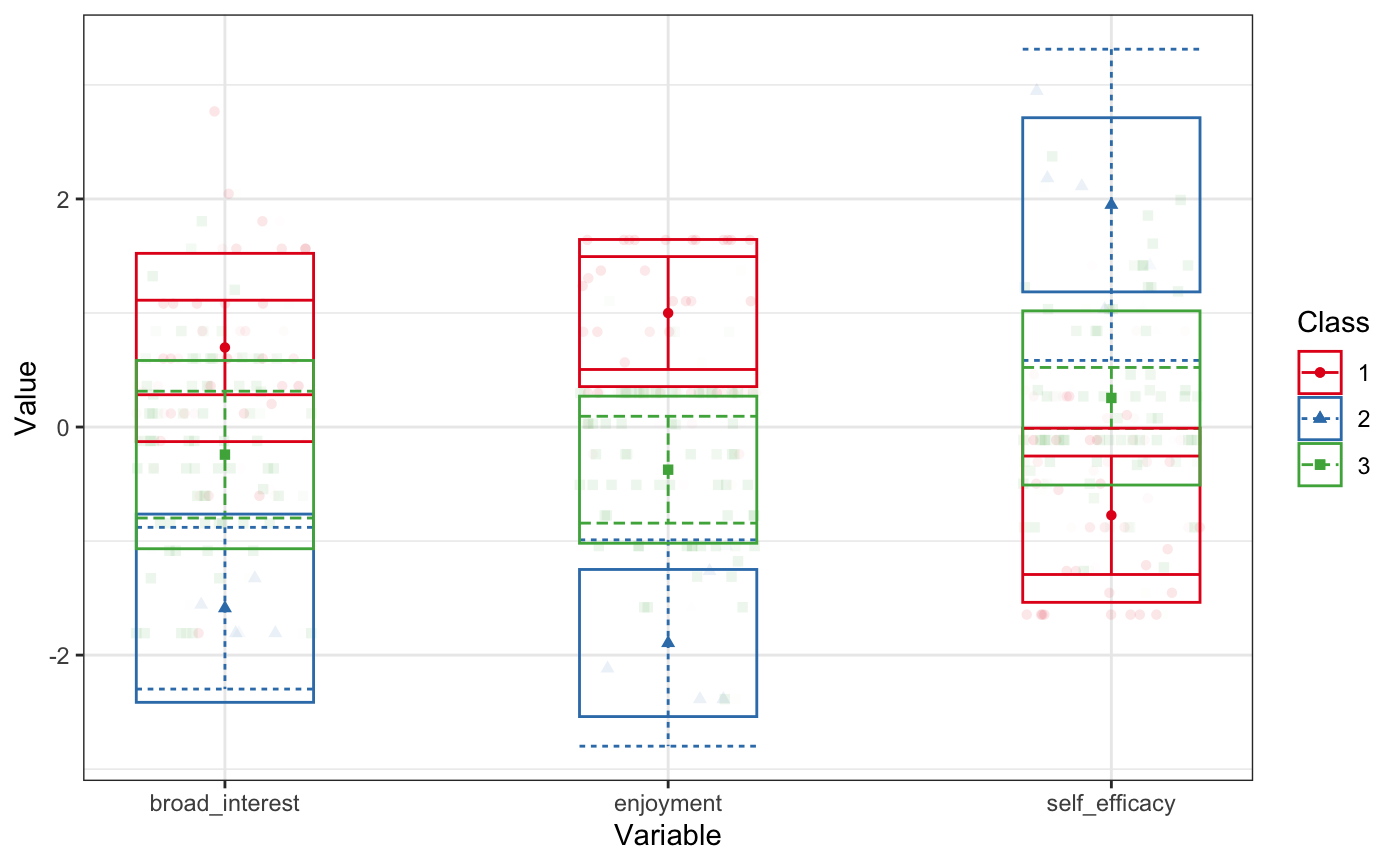
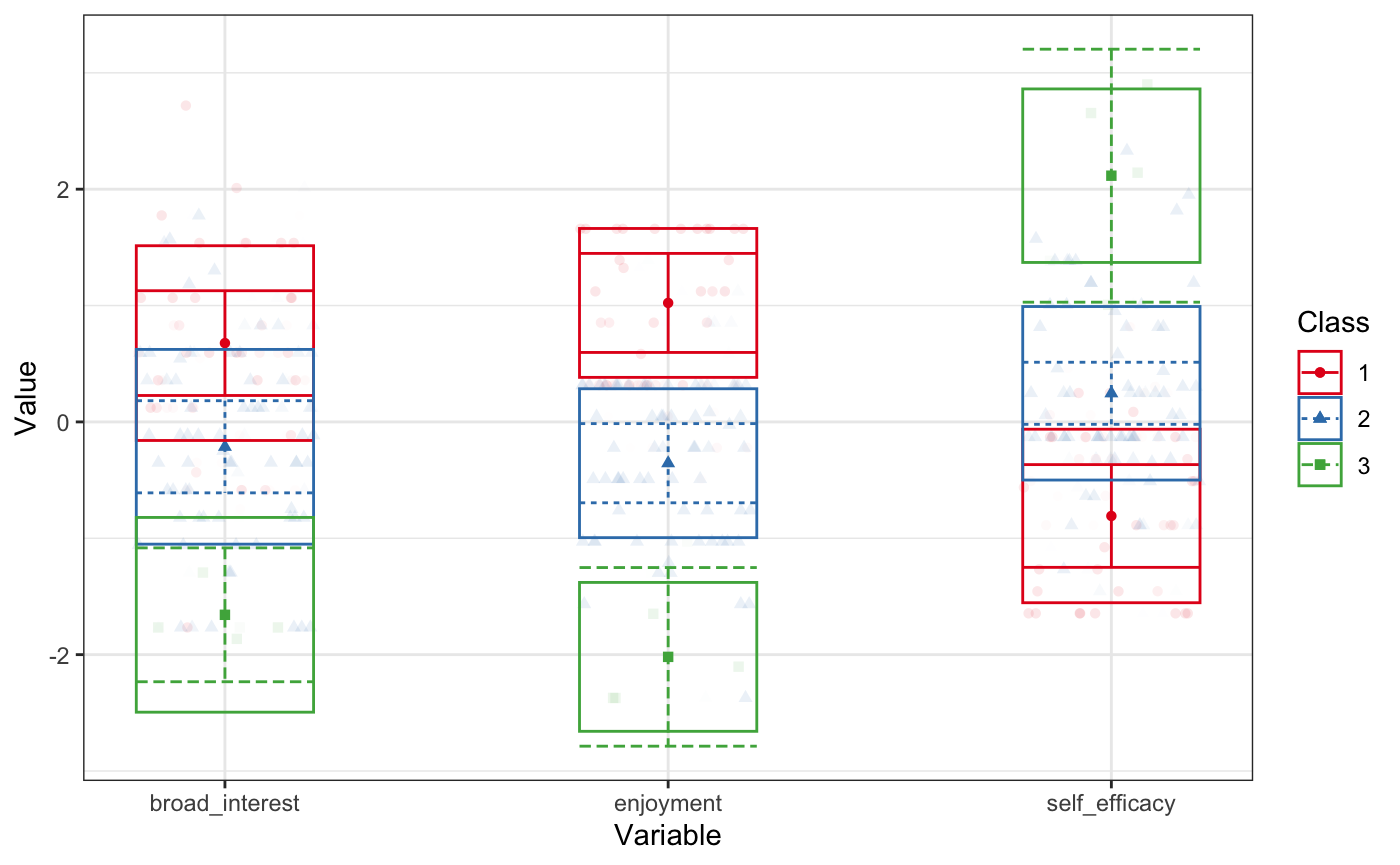
update site

diff --git a/docs/articles/Introduction_to_tidyLPA.html b/docs/articles/Introduction_to_tidyLPA.html
@@ -128,7 +128,7 @@
 <p>In the open-source R software, there is not yet a tool to easily carry out LPA, though there are many tools that one could use to. For example, the <a href="https://openmx.ssri.psu.edu/">R version of OpenMx</a> can be used for this purpose (and to specify almost any model possible to specify within a latent variable modeling approach). However, while OpenMx is very flexible, it can also be challenging to use.</p>
 <p>Other tools in R allow for estimating Gaussian mixture models, or models of multivariate Gaussian (or normal) distributions. In this framework, the term “mixture component” has a similar meaning to a profile. While much more constraining than the latent variable modeling framework, the approach is often similar or the same: the EM algorithm is used to (aim to) obtain the maximum likelihood estimates for the parameters being estimated. Like in the latent variable modeling framework, different models can be specified.</p>
 <p>In addition to following the same general approach, using tools that are designed for Gaussian mixture modeling have other benefits, some efficiency-related (see <a href="https://cran.r-project.org/package=Rmixmod">RMixMod</a>, which uses compiled C++ code) and others in terms of ease-of-use (i.e., the plot methods built-in to RMixMod, mclust, and other tools). However, they also have some drawbacks, in that it can be difficult to translate between the model specifications, which are often described in terms of the geometric properties of the multivariate distributions being estimated (i.e., “spherical, equal volume”), rather than in terms of whether and how the means, variances, and covariances are estimated. They also may use different default settings (than those encountered in MPlus) in terms of the expectation-maximization algorithm, which can make comparing results across tools challenging.</p>
-<p>This package focuses on models that are commonly specified as part of LPA. Because MPlus is so widely-used, it can be helpful to compare output from other software to MPlus. The functions in tidyLPA that use mclust have been benchmarked to MPlus for a series of simple models (with small datasets and for models with small numbers of profiles. This <a href="https://jrosen48.github.io/r-markdown/comparing-mplus-mclust.html">R Markdown output</a> contains information on how mclust and Mplus compare. The R Markdown to generate the output is also available <a href="https://jrosen48.github.io/r-markdown/comparing-mplus-mclust.Rmd">here</a>, and, as long as you have purchased MPlus (and installed MplusAutomation), can be used to replicate all of the results for the benchmark. Note that most of the output is identical, though there are some differences in the hundreths decimal places for some. Because of differences in settings for the EM algorithm and particularly for the start values (random starts for MPlus and starting values from hierarchical clustering for mclust), differences may be expected for more complex data and models. An important direction for the development of tidyLPA (the functions that use mclust) is to continue to understand when and why the output differs from MPlus output. Note that tidyLPA also provides functions to interface to MPlus, though these are not the focus of the package, as they require MPlus to be purchased and installed in order to be used.</p>
+<p>This package focuses on models that are commonly specified as part of LPA. Because MPlus is so widely-used, it can be helpful to compare output from other software to MPlus. The functions in tidyLPA that use mclust have been benchmarked to MPlus for a series of simple models (with small datasets and for models with small numbers of profiles. This <a href="https://jrosen48.github.io/r-markdown/comparing-mplus-mclust.html">R Markdown output</a> contains information on how mclust and Mplus compare. The R Markdown to generate the output is also available <a href="https://jrosen48.github.io/r-markdown/comparing-mplus-mclust.Rmd">here</a>, and, as long as you have purchased MPlus (and installed MplusAutomation), can be used to replicate all of the results for the benchmark. Note that most of the output is identical, though there are some differences in the hundredths decimal places for some. Because of differences in settings for the EM algorithm and particularly for the start values (random starts for MPlus and starting values from hierarchical clustering for mclust), differences may be expected for more complex data and models. An important direction for the development of tidyLPA (the functions that use mclust) is to continue to understand when and why the output differs from MPlus output. Note that tidyLPA also provides functions to interface to MPlus, though these are not the focus of the package, as they require MPlus to be purchased and installed in order to be used.</p>
 </div>
 </div>
 <div id="example" class="section level1">
@@ -157,7 +157,7 @@
 <a class="sourceLine" id="cb4-5" data-line-number="5"><span class="co">#&gt; tidyLPA analysis using mclust: </span></a>
 <a class="sourceLine" id="cb4-6" data-line-number="6"><span class="co">#&gt; </span></a>
 <a class="sourceLine" id="cb4-7" data-line-number="7"><span class="co">#&gt;  Model Classes AIC    BIC    Entropy prob_min prob_max n_min n_max BLRT_p</span></a>
-<a class="sourceLine" id="cb4-8" data-line-number="8"><span class="co">#&gt;  1     3       627.56 664.03 0.81    0.84     0.95     0.03  0.66  0.01</span></a></code></pre></div>
+<a class="sourceLine" id="cb4-8" data-line-number="8"><span class="co">#&gt;  1     3       635.45 671.92 0.72    0.83     0.89     0.21  0.53  0.07</span></a></code></pre></div>
 </div>
 <div id="mplus" class="section level2">
 <h2 class="hasAnchor">
@@ -192,14 +192,14 @@
 <a class="sourceLine" id="cb7-8" data-line-number="8"><span class="co">#&gt; Compare tidyLPA solutions:</span></a>
 <a class="sourceLine" id="cb7-9" data-line-number="9"><span class="co">#&gt; </span></a>
 <a class="sourceLine" id="cb7-10" data-line-number="10"><span class="co">#&gt;  Model Classes AIC     BIC    </span></a>
-<a class="sourceLine" id="cb7-11" data-line-number="11"><span class="co">#&gt;  1     1       673.945 689.576</span></a>
-<a class="sourceLine" id="cb7-12" data-line-number="12"><span class="co">#&gt;  1     2       636.610 662.661</span></a>
-<a class="sourceLine" id="cb7-13" data-line-number="13"><span class="co">#&gt;  1     3       625.794 662.267</span></a>
-<a class="sourceLine" id="cb7-14" data-line-number="14"><span class="co">#&gt;  6     1       617.093 640.539</span></a>
-<a class="sourceLine" id="cb7-15" data-line-number="15"><span class="co">#&gt;  6     2       628.340 677.839</span></a>
-<a class="sourceLine" id="cb7-16" data-line-number="16"><span class="co">#&gt;  6     3       618.584 694.134</span></a>
+<a class="sourceLine" id="cb7-11" data-line-number="11"><span class="co">#&gt;  1     1       682.857 698.488</span></a>
+<a class="sourceLine" id="cb7-12" data-line-number="12"><span class="co">#&gt;  1     2       650.082 676.134</span></a>
+<a class="sourceLine" id="cb7-13" data-line-number="13"><span class="co">#&gt;  1     3       646.310 682.782</span></a>
+<a class="sourceLine" id="cb7-14" data-line-number="14"><span class="co">#&gt;  6     1       636.401 659.847</span></a>
+<a class="sourceLine" id="cb7-15" data-line-number="15"><span class="co">#&gt;  6     2       631.478 680.977</span></a>
+<a class="sourceLine" id="cb7-16" data-line-number="16"><span class="co">#&gt;  6     3       634.884 710.434</span></a>
 <a class="sourceLine" id="cb7-17" data-line-number="17"><span class="co">#&gt; </span></a>
-<a class="sourceLine" id="cb7-18" data-line-number="18"><span class="co">#&gt; Best model according to AIC is Model 6 with 1 classes.</span></a>
+<a class="sourceLine" id="cb7-18" data-line-number="18"><span class="co">#&gt; Best model according to AIC is Model 6 with 2 classes.</span></a>
 <a class="sourceLine" id="cb7-19" data-line-number="19"><span class="co">#&gt; Best model according to BIC is Model 6 with 1 classes.</span></a>
 <a class="sourceLine" id="cb7-20" data-line-number="20"><span class="co">#&gt; </span></a>
 <a class="sourceLine" id="cb7-21" data-line-number="21"><span class="co">#&gt; An analytic hierarchy process, based on the fit indices AIC, AWE, BIC, CLC, and KIC (Akogul &amp; Erisoglu, 2017), suggests the best solution is Model 6 with 1 classes.</span></a></code></pre></div>
@@ -332,26 +332,26 @@
 <a class="sourceLine" id="cb11-5" data-line-number="5"></a>
 <a class="sourceLine" id="cb11-6" data-line-number="6"><span class="kw"><a href="../reference/get_estimates.html">get_estimates</a></span>(m3)</a>
 <a class="sourceLine" id="cb11-7" data-line-number="7"><span class="co">#&gt; # A tibble: 18 x 8</span></a>
-<a class="sourceLine" id="cb11-8" data-line-number="8"><span class="co">#&gt;    Category  Parameter      Estimate     se        p Class Model Classes</span></a>
-<a class="sourceLine" id="cb11-9" data-line-number="9"><span class="co">#&gt;    &lt;chr&gt;     &lt;chr&gt;             &lt;dbl&gt;  &lt;dbl&gt;    &lt;dbl&gt; &lt;int&gt; &lt;dbl&gt;   &lt;dbl&gt;</span></a>
-<a class="sourceLine" id="cb11-10" data-line-number="10"><span class="co">#&gt;  1 Means     broad_interest    3.09  0.204  7.84e-52     1     1       3</span></a>
-<a class="sourceLine" id="cb11-11" data-line-number="11"><span class="co">#&gt;  2 Means     enjoyment         3.51  0.185  8.15e-81     1     1       3</span></a>
-<a class="sourceLine" id="cb11-12" data-line-number="12"><span class="co">#&gt;  3 Means     self_efficacy     1.58  0.210  5.86e-14     1     1       3</span></a>
-<a class="sourceLine" id="cb11-13" data-line-number="13"><span class="co">#&gt;  4 Variances broad_interest    0.489 0.107  4.91e- 6     1     1       3</span></a>
-<a class="sourceLine" id="cb11-14" data-line-number="14"><span class="co">#&gt;  5 Variances enjoyment         0.230 0.0558 3.61e- 5     1     1       3</span></a>
-<a class="sourceLine" id="cb11-15" data-line-number="15"><span class="co">#&gt;  6 Variances self_efficacy     0.246 0.0510 1.48e- 6     1     1       3</span></a>
-<a class="sourceLine" id="cb11-16" data-line-number="16"><span class="co">#&gt;  7 Means     broad_interest    1.14  0.344  8.98e- 4     2     1       3</span></a>
-<a class="sourceLine" id="cb11-17" data-line-number="17"><span class="co">#&gt;  8 Means     enjoyment         1.14  0.379  2.62e- 3     2     1       3</span></a>
-<a class="sourceLine" id="cb11-18" data-line-number="18"><span class="co">#&gt;  9 Means     self_efficacy     3.39  0.495  7.03e-12     2     1       3</span></a>
-<a class="sourceLine" id="cb11-19" data-line-number="19"><span class="co">#&gt; 10 Variances broad_interest    0.489 0.107  4.91e- 6     2     1       3</span></a>
-<a class="sourceLine" id="cb11-20" data-line-number="20"><span class="co">#&gt; 11 Variances enjoyment         0.230 0.0558 3.61e- 5     2     1       3</span></a>
-<a class="sourceLine" id="cb11-21" data-line-number="21"><span class="co">#&gt; 12 Variances self_efficacy     0.246 0.0510 1.48e- 6     2     1       3</span></a>
-<a class="sourceLine" id="cb11-22" data-line-number="22"><span class="co">#&gt; 13 Means     broad_interest    2.27  0.214  3.61e-26     3     1       3</span></a>
-<a class="sourceLine" id="cb11-23" data-line-number="23"><span class="co">#&gt; 14 Means     enjoyment         2.49  0.169  3.81e-49     3     1       3</span></a>
-<a class="sourceLine" id="cb11-24" data-line-number="24"><span class="co">#&gt; 15 Means     self_efficacy     2.26  0.132  1.85e-65     3     1       3</span></a>
-<a class="sourceLine" id="cb11-25" data-line-number="25"><span class="co">#&gt; 16 Variances broad_interest    0.489 0.107  4.91e- 6     3     1       3</span></a>
-<a class="sourceLine" id="cb11-26" data-line-number="26"><span class="co">#&gt; 17 Variances enjoyment         0.230 0.0558 3.61e- 5     3     1       3</span></a>
-<a class="sourceLine" id="cb11-27" data-line-number="27"><span class="co">#&gt; 18 Variances self_efficacy     0.246 0.0510 1.48e- 6     3     1       3</span></a></code></pre></div>
+<a class="sourceLine" id="cb11-8" data-line-number="8"><span class="co">#&gt;    Category  Parameter      Estimate     se         p Class Model Classes</span></a>
+<a class="sourceLine" id="cb11-9" data-line-number="9"><span class="co">#&gt;    &lt;chr&gt;     &lt;chr&gt;             &lt;dbl&gt;  &lt;dbl&gt;     &lt;dbl&gt; &lt;int&gt; &lt;dbl&gt;   &lt;dbl&gt;</span></a>
+<a class="sourceLine" id="cb11-10" data-line-number="10"><span class="co">#&gt;  1 Means     broad_interest    3.09  0.211  1.06e- 48     1     1       3</span></a>
+<a class="sourceLine" id="cb11-11" data-line-number="11"><span class="co">#&gt;  2 Means     enjoyment         3.51  0.165  3.64e-101     1     1       3</span></a>
+<a class="sourceLine" id="cb11-12" data-line-number="12"><span class="co">#&gt;  3 Means     self_efficacy     1.58  0.162  1.68e- 22     1     1       3</span></a>
+<a class="sourceLine" id="cb11-13" data-line-number="13"><span class="co">#&gt;  4 Variances broad_interest    0.489 0.114  1.87e-  5     1     1       3</span></a>
+<a class="sourceLine" id="cb11-14" data-line-number="14"><span class="co">#&gt;  5 Variances enjoyment         0.230 0.0527 1.21e-  5     1     1       3</span></a>
+<a class="sourceLine" id="cb11-15" data-line-number="15"><span class="co">#&gt;  6 Variances self_efficacy     0.246 0.0384 1.55e- 10     1     1       3</span></a>
+<a class="sourceLine" id="cb11-16" data-line-number="16"><span class="co">#&gt;  7 Means     broad_interest    1.14  0.277  3.89e-  5     2     1       3</span></a>
+<a class="sourceLine" id="cb11-17" data-line-number="17"><span class="co">#&gt;  8 Means     enjoyment         1.14  0.310  2.28e-  4     2     1       3</span></a>
+<a class="sourceLine" id="cb11-18" data-line-number="18"><span class="co">#&gt;  9 Means     self_efficacy     3.39  0.512  3.23e- 11     2     1       3</span></a>
+<a class="sourceLine" id="cb11-19" data-line-number="19"><span class="co">#&gt; 10 Variances broad_interest    0.489 0.114  1.87e-  5     2     1       3</span></a>
+<a class="sourceLine" id="cb11-20" data-line-number="20"><span class="co">#&gt; 11 Variances enjoyment         0.230 0.0527 1.21e-  5     2     1       3</span></a>
+<a class="sourceLine" id="cb11-21" data-line-number="21"><span class="co">#&gt; 12 Variances self_efficacy     0.246 0.0384 1.55e- 10     2     1       3</span></a>
+<a class="sourceLine" id="cb11-22" data-line-number="22"><span class="co">#&gt; 13 Means     broad_interest    2.27  0.199  3.31e- 30     3     1       3</span></a>
+<a class="sourceLine" id="cb11-23" data-line-number="23"><span class="co">#&gt; 14 Means     enjoyment         2.49  0.155  7.38e- 58     3     1       3</span></a>
+<a class="sourceLine" id="cb11-24" data-line-number="24"><span class="co">#&gt; 15 Means     self_efficacy     2.26  0.0837 2.69e-160     3     1       3</span></a>
+<a class="sourceLine" id="cb11-25" data-line-number="25"><span class="co">#&gt; 16 Variances broad_interest    0.489 0.114  1.87e-  5     3     1       3</span></a>
+<a class="sourceLine" id="cb11-26" data-line-number="26"><span class="co">#&gt; 17 Variances enjoyment         0.230 0.0527 1.21e-  5     3     1       3</span></a>
+<a class="sourceLine" id="cb11-27" data-line-number="27"><span class="co">#&gt; 18 Variances self_efficacy     0.246 0.0384 1.55e- 10     3     1       3</span></a></code></pre></div>
 <p>Other options include how the raw data is processed.</p>
 <p>We can center or scale the data before estimating the profiles with the <code><a href="https://rdrr.io/r/base/scale.html">scale()</a></code> or <code><a href="../reference/poms.html">poms()</a></code> functions:</p>
 <div class="sourceCode" id="cb12"><pre class="sourceCode r"><code class="sourceCode r"><a class="sourceLine" id="cb12-1" data-line-number="1">pisaUSA15[<span class="dv">1</span><span class="op">:</span><span class="dv">100</span>, ] <span class="op">%&gt;%</span></a>
@@ -401,13 +401,13 @@
 <a class="sourceLine" id="cb15-8" data-line-number="8"><span class="co">#&gt;    model_number classes_number broad_interest enjoyment self_efficacy Class</span></a>
 <a class="sourceLine" id="cb15-9" data-line-number="9"><span class="co">#&gt;           &lt;dbl&gt;          &lt;dbl&gt;          &lt;dbl&gt;     &lt;dbl&gt;         &lt;dbl&gt; &lt;dbl&gt;</span></a>
 <a class="sourceLine" id="cb15-10" data-line-number="10"><span class="co">#&gt;  1            1              3            3.8       4            1        1</span></a>
-<a class="sourceLine" id="cb15-11" data-line-number="11"><span class="co">#&gt;  2            1              3            3         3            2.75     3</span></a>
+<a class="sourceLine" id="cb15-11" data-line-number="11"><span class="co">#&gt;  2            1              3            3         3            2.75     2</span></a>
 <a class="sourceLine" id="cb15-12" data-line-number="12"><span class="co">#&gt;  3            1              3            1.8       2.8          3.38     3</span></a>
-<a class="sourceLine" id="cb15-13" data-line-number="13"><span class="co">#&gt;  4            1              3            1.4       1            2.75     2</span></a>
+<a class="sourceLine" id="cb15-13" data-line-number="13"><span class="co">#&gt;  4            1              3            1.4       1            2.75     3</span></a>
 <a class="sourceLine" id="cb15-14" data-line-number="14"><span class="co">#&gt;  5            1              3            1.8       2.2          2        3</span></a>
 <a class="sourceLine" id="cb15-15" data-line-number="15"><span class="co">#&gt;  6            1              3            1.6       1.6          1.88     3</span></a>
 <a class="sourceLine" id="cb15-16" data-line-number="16"><span class="co">#&gt;  7            1              3            3         3.8          2.25     1</span></a>
-<a class="sourceLine" id="cb15-17" data-line-number="17"><span class="co">#&gt;  8            1              3            2.6       2.2          2        3</span></a>
+<a class="sourceLine" id="cb15-17" data-line-number="17"><span class="co">#&gt;  8            1              3            2.6       2.2          2        2</span></a>
 <a class="sourceLine" id="cb15-18" data-line-number="18"><span class="co">#&gt;  9            1              3            1         2.8          2.62     3</span></a>
 <a class="sourceLine" id="cb15-19" data-line-number="19"><span class="co">#&gt; 10            1              3            2.2       2            1.75     3</span></a>
 <a class="sourceLine" id="cb15-20" data-line-number="20"><span class="co">#&gt; # … with 690 more rows, and 3 more variables: Class_prob &lt;int&gt;,</span></a>
@@ -421,8 +421,8 @@
 <a class="sourceLine" id="cb16-2" data-line-number="2"><span class="co">#&gt; # A tibble: 2 x 18</span></a>
 <a class="sourceLine" id="cb16-3" data-line-number="3"><span class="co">#&gt;   Model Classes LogLik   AIC   AWE   BIC  CAIC   CLC   KIC SABIC   ICL Entropy</span></a>
 <a class="sourceLine" id="cb16-4" data-line-number="4"><span class="co">#&gt;   &lt;dbl&gt;   &lt;dbl&gt;  &lt;dbl&gt; &lt;dbl&gt; &lt;dbl&gt; &lt;dbl&gt; &lt;dbl&gt; &lt;dbl&gt; &lt;dbl&gt; &lt;dbl&gt; &lt;dbl&gt;   &lt;dbl&gt;</span></a>
-<a class="sourceLine" id="cb16-5" data-line-number="5"><span class="co">#&gt; 1     1       3  -301.  631.  772.  667.  681.  604.  648.  623. -687.   0.806</span></a>
-<a class="sourceLine" id="cb16-6" data-line-number="6"><span class="co">#&gt; 2     1       4  -291.  618.  800.  665.  683.  584.  639.  608. -678.   0.900</span></a>
+<a class="sourceLine" id="cb16-5" data-line-number="5"><span class="co">#&gt; 1     1       3  -301.  629.  771.  666.  680.  603.  646.  622. -706.   0.640</span></a>
+<a class="sourceLine" id="cb16-6" data-line-number="6"><span class="co">#&gt; 2     1       4  -296.  628.  810.  675.  693.  593.  649.  618. -708.   0.736</span></a>
 <a class="sourceLine" id="cb16-7" data-line-number="7"><span class="co">#&gt; # … with 6 more variables: prob_min &lt;dbl&gt;, prob_max &lt;dbl&gt;, n_min &lt;dbl&gt;,</span></a>
 <a class="sourceLine" id="cb16-8" data-line-number="8"><span class="co">#&gt; #   n_max &lt;dbl&gt;, BLRT_val &lt;dbl&gt;, BLRT_p &lt;dbl&gt;</span></a></code></pre></div>
 <p>Descriptions of these fit indices follows:</p>
@@ -440,7 +440,7 @@
 </li>
 <li>KIC: Kullback information criterion; based on -2 log-likelihood, and penalized by 3 times the number of parameters -1 (Cavanaugh, 1999).<br>
 </li>
-<li>SABIC: Sample size-adjusted bayesian information criterion (Sclove, 1987).<br>
+<li>SABIC: Sample size-adjusted Bayesian information criterion (Sclove, 1987).<br>
 </li>
 <li>ICL: Integrated completed likelihood (Biernacki, Celeux, &amp; Govaert, 2000).<br>
 </li>

diff --git a/docs/index.html b/docs/index.html
@@ -15,7 +15,7 @@
     Open-Source or Commercial Software">
 <meta property="og:description" content='An interface to the mclust package to easily
     carry out latent profile analysis ("LPA"). Provides functionality to
-    estimate commonly-specified models.  Follows a tidy approach, in that
+    estimate commonly-specified models. Follows a tidy approach, in that
     output is in the form of a data frame that can subsequently be
     computed on. Also has functions to interface to the commercial MPlus
     software via the MplusAutomation package.'>
